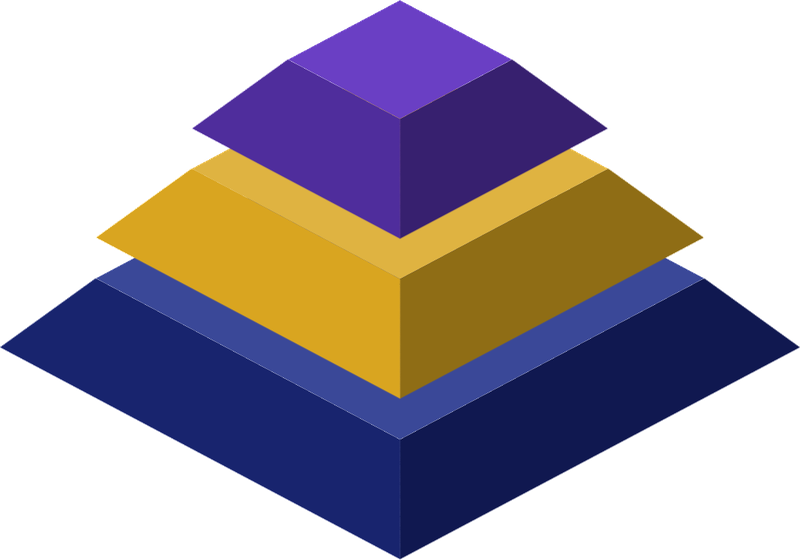
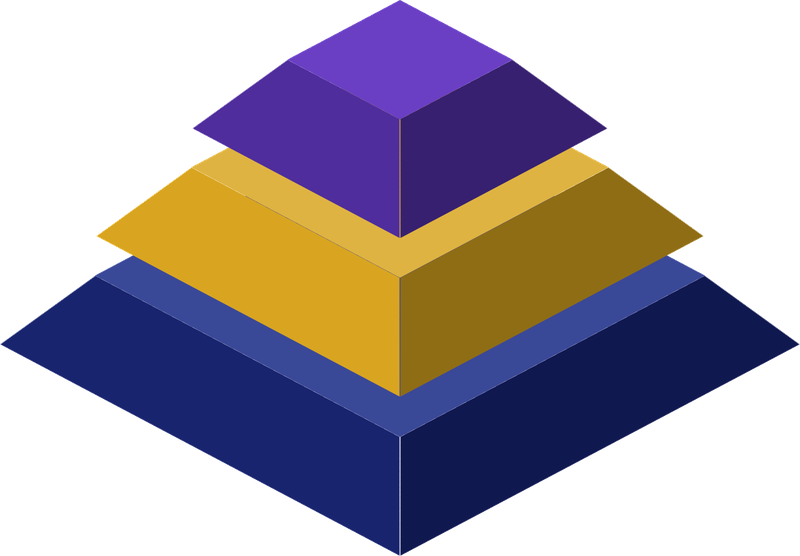
Cultural Materialism: Infrastructure-Structure-Superstructure; the stack 1.25 times larger; its first slab slides in midnight blue; downloads and CEM page 1 updated
Claude-Session: https://claude.ai/code/session_01LgHoU9QwZ5ZurXZhgzwbWe

diff --git a/diagram/index.html b/diagram/index.html
@@ -1937,6 +1937,12 @@
       --taper: 0.83;
     }
 
+    /* (its first slab, which slides in and splits, in the infrastructure's
+       midnight blue) */
+    .structures-view .st-block.st-ghost {
+      --top: color-mix(in srgb, #1f2f8a 88%, #fff); --left: #18246e; --right: #101850;
+    }
+
     /* Base-Superstructure's slabs as sections of a pyramid: each top drawn
        in by --tp on every side, and the front and side sloping down to the
        full footprint (the faces tilted and cut to trapezoids) */
@@ -3590,13 +3596,13 @@
     /* (Base-Superstructure's larger pyramid drawn smaller on a phone, to
        stay within the screen) */
     @media (max-width: 800px) {
-      .marx-view .st-stack {
+      :is(.marx-view, .structures-view) .st-stack {
         scale: 0.86;
       }
     }
 
     @media (max-width: 600px) {
-      .marx-view .st-stack {
+      :is(.marx-view, .structures-view) .st-stack {
         scale: 0.74;
       }
     }
@@ -3863,8 +3869,8 @@
       </div>
     </section>
 
-    <section class="structures-view" aria-label="Cultural Materialism: Infrastructure, Structure, Superstructure">
-    <div class="model-save-row"><a class="model-save" href="../assets/downloads/cultural-materialism.png?v=0369c5a2" download="Cultural Materialism - Infrastructure, Structure, Superstructure.png"><svg viewBox="0 0 24 24" fill="none" stroke="currentColor" stroke-width="1.6" stroke-linecap="round" stroke-linejoin="round" aria-hidden="true"><path d="M4 15v3.5A1.5 1.5 0 0 0 5.5 20h13a1.5 1.5 0 0 0 1.5-1.5V15"/><g class="arrow"><path d="M12 4v11"/><path d="M8 11l4 4 4-4"/></g></svg><span>Download diagram</span></a></div>
+    <section class="structures-view" aria-label="Cultural Materialism: Infrastructure-Structure-Superstructure">
+    <div class="model-save-row"><a class="model-save" href="../assets/downloads/cultural-materialism.png?v=700a56d9" download="Cultural Materialism - Infrastructure-Structure-Superstructure.png"><svg viewBox="0 0 24 24" fill="none" stroke="currentColor" stroke-width="1.6" stroke-linecap="round" stroke-linejoin="round" aria-hidden="true"><path d="M4 15v3.5A1.5 1.5 0 0 0 5.5 20h13a1.5 1.5 0 0 0 1.5-1.5V15"/><g class="arrow"><path d="M12 4v11"/><path d="M8 11l4 4 4-4"/></g></svg><span>Download diagram</span></a></div>
       <div class="stack-layout">
         <div class="stack-scene" aria-hidden="true"><div class="st-stack"></div></div>
         <div class="stack-side">
@@ -3879,7 +3885,7 @@
     <div class="structures-alt" role="figure" aria-label="Cultural Materialism, three structures: infrastructure, structure and superstructure"></div>
 
     <section class="marx-view" aria-label="Classical Marxism: Base-Superstructure">
-    <div class="model-save-row model-save-modes"><a class="model-save" href="../assets/downloads/base-superstructure.png?v=3f9d90a3" download="Classical Marxism - Base-Superstructure.png"><svg viewBox="0 0 24 24" fill="none" stroke="currentColor" stroke-width="1.6" stroke-linecap="round" stroke-linejoin="round" aria-hidden="true"><path d="M4 15v3.5A1.5 1.5 0 0 0 5.5 20h13a1.5 1.5 0 0 0 1.5-1.5V15"/><g class="arrow"><path d="M12 4v11"/><path d="M8 11l4 4 4-4"/></g></svg><span>Download diagram</span></a><div class="model-modes" role="group" aria-label="View"><button type="button" data-mode="stack" aria-pressed="true">Stack</button><button type="button" data-mode="diagram" aria-pressed="false">Diagram</button></div></div>
+    <div class="model-save-row model-save-modes"><a class="model-save" href="../assets/downloads/base-superstructure.png?v=9fbeea0a" download="Classical Marxism - Base-Superstructure.png"><svg viewBox="0 0 24 24" fill="none" stroke="currentColor" stroke-width="1.6" stroke-linecap="round" stroke-linejoin="round" aria-hidden="true"><path d="M4 15v3.5A1.5 1.5 0 0 0 5.5 20h13a1.5 1.5 0 0 0 1.5-1.5V15"/><g class="arrow"><path d="M12 4v11"/><path d="M8 11l4 4 4-4"/></g></svg><span>Download diagram</span></a><div class="model-modes" role="group" aria-label="View"><button type="button" data-mode="stack" aria-pressed="true">Stack</button><button type="button" data-mode="diagram" aria-pressed="false">Diagram</button></div></div>
       <div class="stack-layout">
         <div class="stack-scene" aria-hidden="true"><div class="st-stack"></div></div>
         <div class="stack-side">
@@ -4186,7 +4192,7 @@
           desc: 'Marx divides a society into two layers: its economic base, the forces and relations of production, and the legal, political and ideological superstructure that rises on it. The base conditions the superstructure &ndash; &ldquo;it is not the consciousness of men that determines their being, but their social being that determines their consciousness&rdquo; &ndash; and as the base changes, the superstructure is transformed with it.'
         },
         structures: {
-          title: 'Cultural Materialism: Infrastructure, Structure, Superstructure',
+          title: 'Cultural Materialism: Infrastructure-Structure-Superstructure',
           desc: 'Every society can be read as three interacting layers: its infrastructure, the technologies and material systems through which it meets its needs; its structure, the institutions of political economy that organise power and exchange; and its superstructure, the shared values, beliefs and cultural psychology of its people. A change in any layer pressures the others, but the deepest and most durable shifts begin in the infrastructure &ndash; which is why each new tech stack remakes the layers above it.'
         }
       };
@@ -4514,7 +4520,7 @@
             detail: '<p class="st-detail-name st-detail-name-only">' + L.name + '<span class="name-sep">:</span> ' + L.aka + '</p>' +
               '<p class="st-detail-def">' + L.def + '</p>'
           };
-        }), { SIZE: 250, H: 36, TRIM: 60, STEP: 700, prelude: { n: structuresFromStack ? 4 : 1, SIZE: 250, H: 44, TRIM: 30, STEP: 520, taper: 0.83 } });
+        }), { SIZE: 312, H: 45, TRIM: 75, STEP: 700, prelude: { n: structuresFromStack ? 4 : 1, SIZE: 312, H: 55, TRIM: 38, STEP: 520, taper: 0.83 } });
       }
       // the alternative view of the structures: the three layers, one above
       // the other, and how each acts on its neighbour
@@ -5637,7 +5643,7 @@
         ['exoendo', 'Exo-Endo Structure', 'Exo-Endo Structure', 'Human agency at the centre of the civilisational structures, each both extended outward from it and internalised by it.'],
         ['emergence', 'Emergence Model', 'The Emergence Model', 'Superstructure, physiologic structure, social structure and infrastructure, set in the four quadrants of a disc.'],
         ['integral', 'Four Quadrants', 'Integral Model: Four Quadrants', 'Interior and exterior, individual and collective: four views of any whole that arise together, none reducible to the others.'],
-        ['structures', 'The Structures', 'Cultural Materialism: Infrastructure, Structure, Superstructure', 'Infrastructure, social structure and superstructure, and how each acts on the others.'],
+        ['structures', 'The Structures', 'Cultural Materialism: Infrastructure-Structure-Superstructure', 'Infrastructure, social structure and superstructure, and how each acts on the others.'],
         ['marx', 'Base-Superstructure', 'Classical Marxism: Base-Superstructure', 'The economic base and the legal, political and ideological superstructure that rises on it, and how each acts on the other.']
       ];
       // an isometric slab, centred at (x, y), w across and h thick

diff --git a/model/index.html b/model/index.html
@@ -1398,7 +1398,7 @@
        page draws them, each leading to its model, in a row above the title:
        Cultural Materialism, the Four Quadrants and the Emergence Model -->
   <div class="md-corners">
-    <a class="md-corner md-corner-bl md-corner-small" href="../diagram/#structures" aria-label="Cultural Materialism: Infrastructure, Structure, Superstructure"><img src="../assets/models/cultural-materialism.png?v=a9a1d0ec" alt="" width="708" decoding="async"><span class="md-corner-label">Cultural Materialism:<br>Infrastructure, Structure,<br>Superstructure</span></a>
+    <a class="md-corner md-corner-bl md-corner-small" href="../diagram/#structures" aria-label="Cultural Materialism: Infrastructure-Structure-Superstructure"><img src="../assets/models/cultural-materialism.png?v=895e59ad" alt="" width="708" decoding="async"><span class="md-corner-label">Cultural Materialism:<br>Infrastructure-Structure-<br>Superstructure</span></a>
     <a class="md-corner md-corner-top" href="../diagram/#four-quadrants" aria-label="Integral Model: Four Quadrants"><img src="../assets/models/integral.png?v=49a60a9f" alt="" width="800" decoding="async"><span class="md-corner-label">Integral Model: Four Quadrants</span></a>
     <a class="md-corner md-corner-br" href="../diagram/#emergence-model" aria-label="The Emergence Model"><img src="../assets/models/emergence.png?v=db003d34" alt="" width="800" decoding="async"><span class="md-corner-label">The Emergence Model</span></a>
   </div>

diff --git a/timeline/index.html b/timeline/index.html
@@ -1231,7 +1231,7 @@
 
       <li class="era" id="cultural-materialism" data-short="Harris" data-summary="Harris divides every society into infrastructure, structure and superstructure, and argues that the material conditions of production and reproduction are the primary drivers of cultural change. It is the source of the Emergence Model’s three layers, and of the priority it gives to infrastructure.">
         <p class="era-date">1979</p>
-        <h2 class="era-name"><a href="#cultural-materialism">Cultural Materialism: Infrastructure, Structure, Superstructure</a></h2>
+        <h2 class="era-name"><a href="#cultural-materialism">Cultural Materialism: Infrastructure-Structure-Superstructure</a></h2>
         <p class="era-stack">Marvin Harris, <em>Cultural Materialism: The Struggle for a Science of Culture</em> (1979)</p>
         <p class="era-note">Harris divides every society into infrastructure, structure and superstructure, and argues that the material conditions of production and reproduction are the primary drivers of cultural change. It is the source of the Emergence Model&rsquo;s three layers, and of the priority it gives to infrastructure.</p>
         <dl class="era-aspects">
